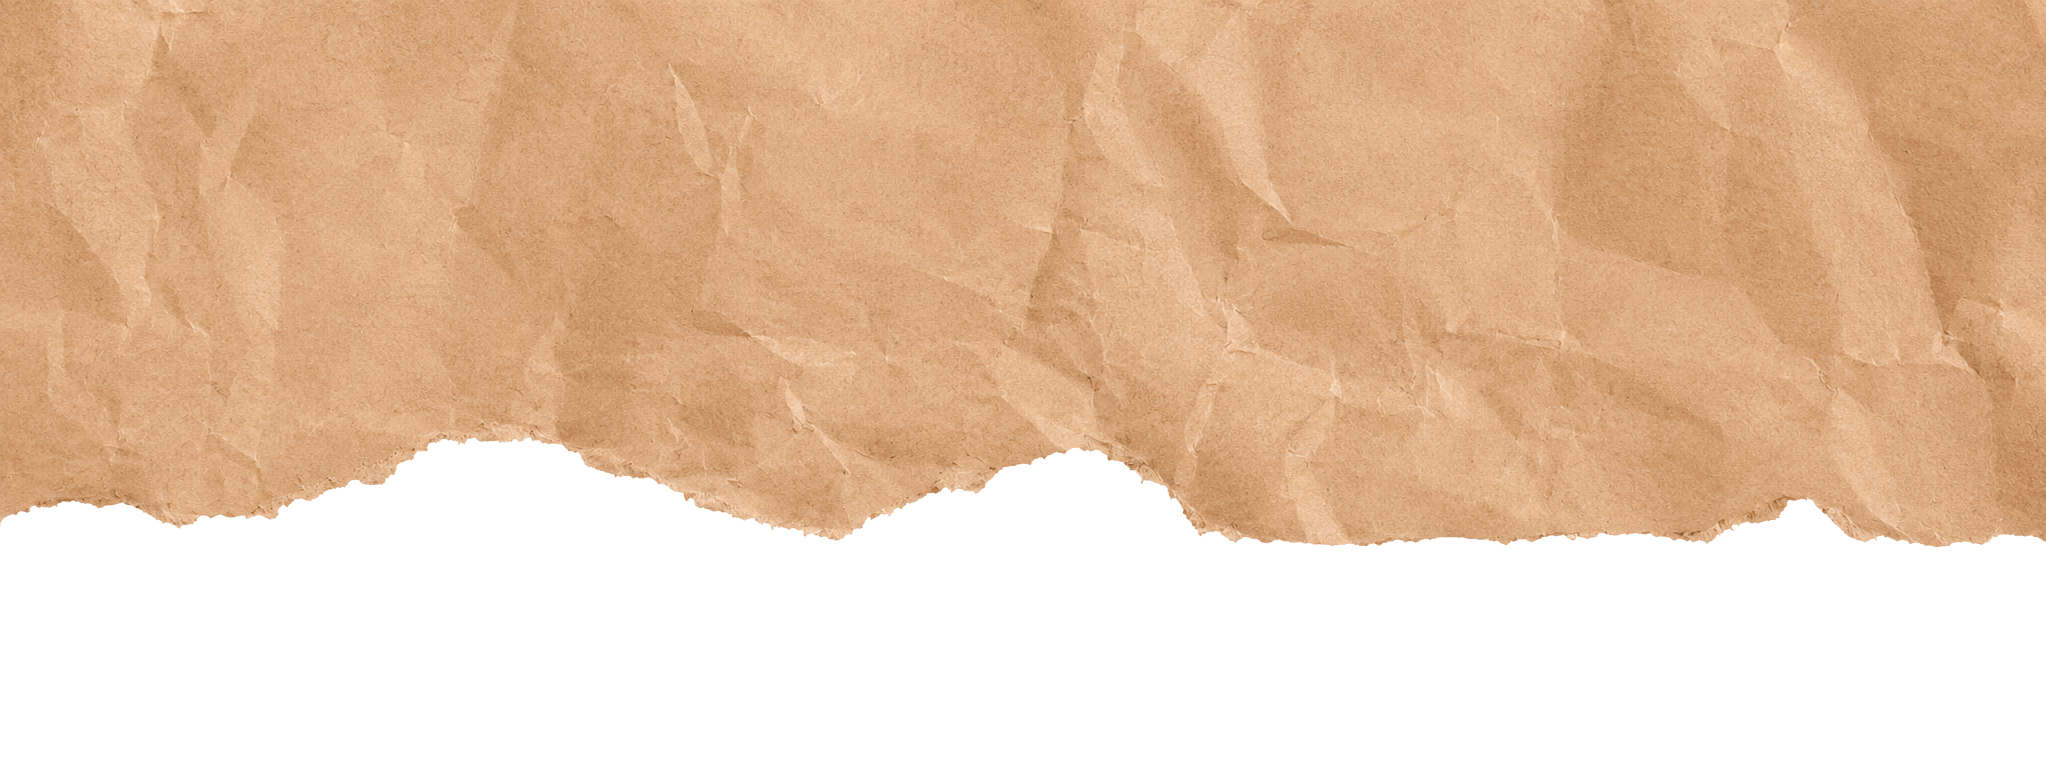
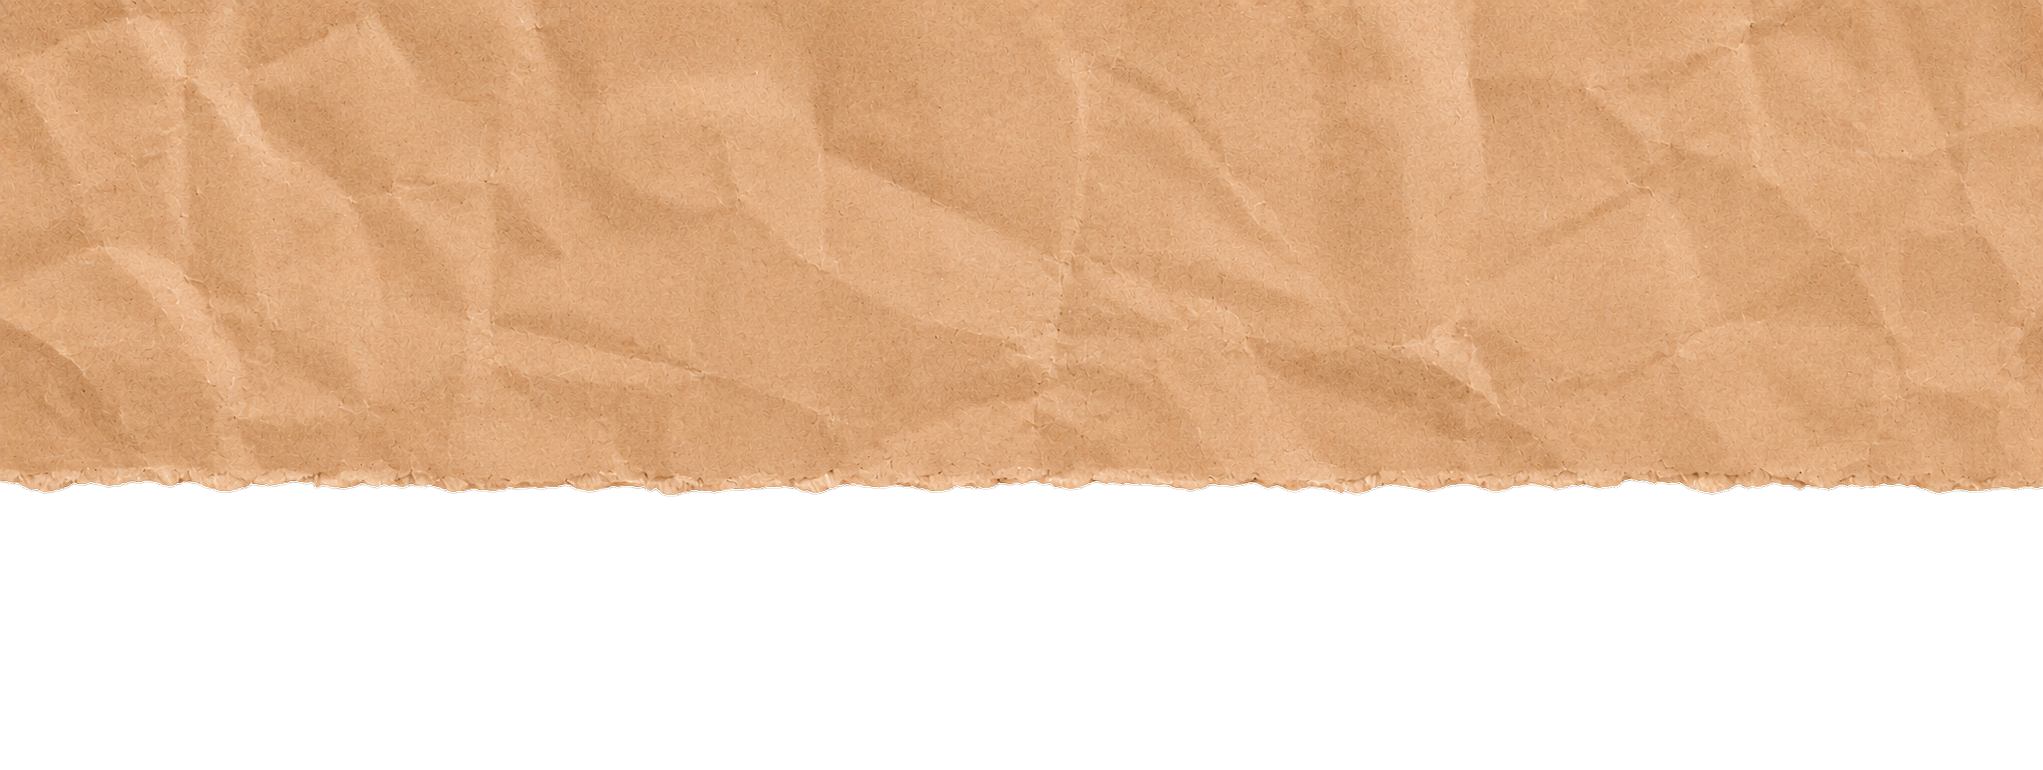
style: replaced topnavbar.png with a more suitable one

diff --git a/css/about.css b/css/about.css
@@ -21,14 +21,14 @@
   position: absolute;
   top: 490px;      /* moves ONLY the header image up/down */
   left: 400px;    /* moves ONLY the header image left/right */
-  width: 760px;
+  width: 700px;
   height: auto;
   z-index: 1;
 }
 
 .about-intro__title {
   position: absolute;
-  top: 560px;      /* moves ONLY the "About me" text up/down */
+  top: 550px;      /* moves ONLY the "About me" text up/down */
   left: 660px;    /* moves ONLY the "About me" text left/right */
   z-index: 2;
   font-family: 'ShinyPaint', sans-serif;